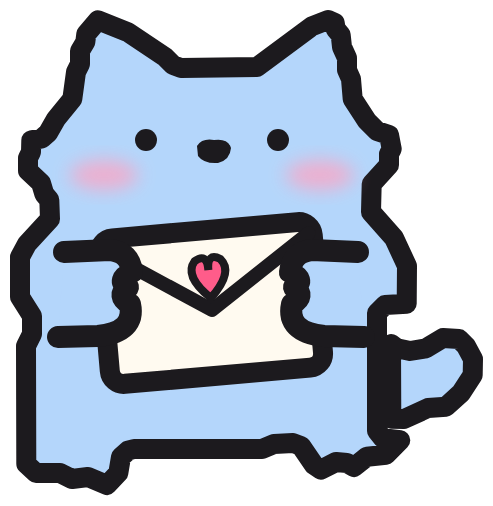
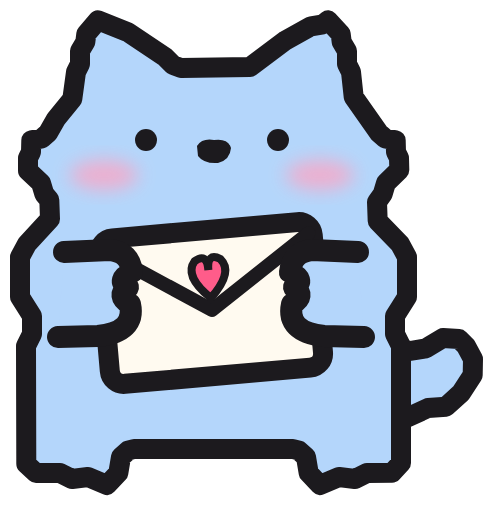
Cicák: kilógó könyök eltávolítva, mindenhol gombszem
A test jobb oldala a bal oldal tükörképe, így eltűnt az eredeti képről
örökölt kiálló rész a farok fölött. A szemek mindenhol sima gombszemek
(az alvó cicánál csukott szem marad).

Claude-Session: https://claude.ai/code/session_0147rMSUhfh921N6BdCdXTQF

diff --git a/app.js b/app.js
@@ -35,14 +35,14 @@
         "szomoru_shy1.png":       { x: 50, y: 21, w: 48, r: -5 },
         "szomoru_shy2.png":       { x: 37, y: 13, w: 45, r: -8 },
         "szomoru_takaro.png":     { x: 52, y: 41, w: 28, r: -5 },
-        "alvo_parna.png":         { x: 49, y: 35, w: 36, r: -6 },
-        "boldog_gombolyag.png":   { x: 43, y: 13, w: 47, r: -6 },
-        "boldog_hal.png":         { x: 43, y: 13, w: 47, r: -6 },
-        "boldog_level.png":       { x: 43, y: 13, w: 47, r: -6 },
-        "boldog_puszi_kuld.png":  { x: 42, y: 19, w: 45, r: -6 },
-        "karacsony_ajandek.png":  { x: 43, y: 13, w: 47, r: -6 },
-        "reggel_integet.png":     { x: 50, y: 29, w: 38, r: -6 },
-        "szomoru_konnyes.png":    { x: 43, y: 13, w: 47, r: -6 }
+        "alvo_parna.png":         { x: 49, y: 33, w: 36, r: -6 },
+        "boldog_gombolyag.png":   { x: 43, y: 11, w: 47, r: -6 },
+        "boldog_hal.png":         { x: 43, y: 12, w: 47, r: -6 },
+        "boldog_level.png":       { x: 43, y: 12, w: 47, r: -6 },
+        "boldog_puszi_kuld.png":  { x: 42, y: 18, w: 45, r: -6 },
+        "karacsony_ajandek.png":  { x: 43, y: 12, w: 47, r: -6 },
+        "reggel_integet.png":     { x: 50, y: 28, w: 38, r: -6 },
+        "szomoru_konnyes.png":    { x: 43, y: 12, w: 47, r: -6 }
         // az unnep_parti.png-n partisapka van, oda nem kell mikulássapka
     };
 

diff --git a/sw.js b/sw.js
@@ -1,6 +1,6 @@
 // Offline mód: a Kék Cica internet nélkül is működik.
 // Ha új verziót töltesz fel, emeld meg a VERZIO számot.
-const VERZIO = "kekcica-v6";
+const VERZIO = "kekcica-v7";
 const FAJLOK = [
     "./", "index.html", "style.css", "app.js", "beallitasok.js", "manifest.json",
     "apple-touch-icon.png", "ikon-192.png", "ikon-512.png",

diff --git a/forras/uj_cicak_rajzolo.py b/forras/uj_cicak_rajzolo.py
@@ -41,12 +41,12 @@ def szemek(fajta="pont"):
     if fajta == "pont":
         return f'<circle cx="{L}" cy="{Y}" r="11" fill="{FEK}"/><circle cx="{R}" cy="{Y}" r="11" fill="{FEK}"/>'
     if fajta == "boldog":
+        return szemek("pont")
         return vonal(f"M{L-17} {Y+7} Q{L} {Y-12} {L+17} {Y+7} M{R-17} {Y+7} Q{R} {Y-12} {R+17} {Y+7}", w=10)
     if fajta == "csukott":
         return vonal(f"M{L-17} {Y-2} Q{L} {Y+12} {L+17} {Y-2} M{R-17} {Y-2} Q{R} {Y+12} {R+17} {Y-2}", w=10)
     if fajta == "konnyes":
-        return (f'<circle cx="{L}" cy="{Y}" r="15" fill="#fff" stroke="{FEK}" stroke-width="7"/><circle cx="{L+3}" cy="{Y+2}" r="6" fill="{FEK}"/>'
-                f'<circle cx="{R}" cy="{Y}" r="15" fill="#fff" stroke="{FEK}" stroke-width="7"/><circle cx="{R+3}" cy="{Y+2}" r="6" fill="{FEK}"/>'
+        return (f'<circle cx="{L}" cy="{Y}" r="11" fill="{FEK}"/><circle cx="{R}" cy="{Y}" r="11" fill="{FEK}"/>'
                 f'<path d="M{L+4} {Y+22} Q{L-8} {Y+46} {L+4} {Y+54} Q{L+16} {Y+46} {L+4} {Y+22} Z" fill="#9fd0ff" stroke="{FEK}" stroke-width="6"/>')
 
 def arc(szem="pont", nagy_pir=False):
@@ -123,7 +123,7 @@ kepek["unnep_parti"] = svg(konf + kar_fel((100, 300), (-15, 95), -1) + kar_fel((
 
 szivek = (f'<path d="M470 120 Q430 84 450 64 Q470 52 476 78 Q484 52 504 62 Q522 84 470 120 Z" fill="#ff5c8a" stroke="{FEK}" stroke-width="10" stroke-linejoin="round"/>'
           f'<path d="M430 30 Q410 12 420 2 Q430 -4 433 9 Q437 -4 447 1 Q456 12 430 30 Z" fill="#ff8fb0" stroke="{FEK}" stroke-width="8" stroke-linejoin="round"/>')
-kepek["boldog_puszi_kuld"] = svg(kar_fel((350, 300), (430, 135), 1) + test() + arc("csukott") + mancs_bal() + szivek)
+kepek["boldog_puszi_kuld"] = svg(kar_fel((350, 300), (430, 135), 1) + test() + arc("pont") + mancs_bal() + szivek)
 
 # Párnán alvó: az eredeti test laposra nyomva ("cipó" póz)
 lapos = eltol(TEST, 0, 60, sy=0.62, y0=0)

diff --git a/forras/alak/kinyer.py b/forras/alak/kinyer.py
@@ -23,6 +23,12 @@ ker = cv2.getStructuringElement(cv2.MORPH_ELLIPSE, (VAST + 1, VAST + 1))
 test = a.copy(); test[335:450, 402:] = False
 test = cv2.morphologyEx(test.astype(np.uint8), cv2.MORPH_CLOSE, np.ones((9, 9), np.uint8))
 test = cv2.erode(test, cv2.getStructuringElement(cv2.MORPH_ELLIPSE, (VAST // 2 * 2 + 1,) * 2)) > 0
+# a jobb oldalon kilógó könyök miatt a jobb felet a bal fél tükörképéből rakjuk össze
+KOZEP = 228
+sym = np.zeros_like(test)
+sym[:, :KOZEP] = test[:, :KOZEP]
+sym[:, KOZEP:2 * KOZEP] = test[:, :KOZEP][:, ::-1]
+test = sym
 # farok
 farok = np.zeros_like(a); farok[335:450, 395:] = a[335:450, 395:]
 farok = cv2.erode(farok.astype(np.uint8), cv2.getStructuringElement(cv2.MORPH_ELLIPSE, (VAST // 2 * 2 + 1,) * 2)) > 0
